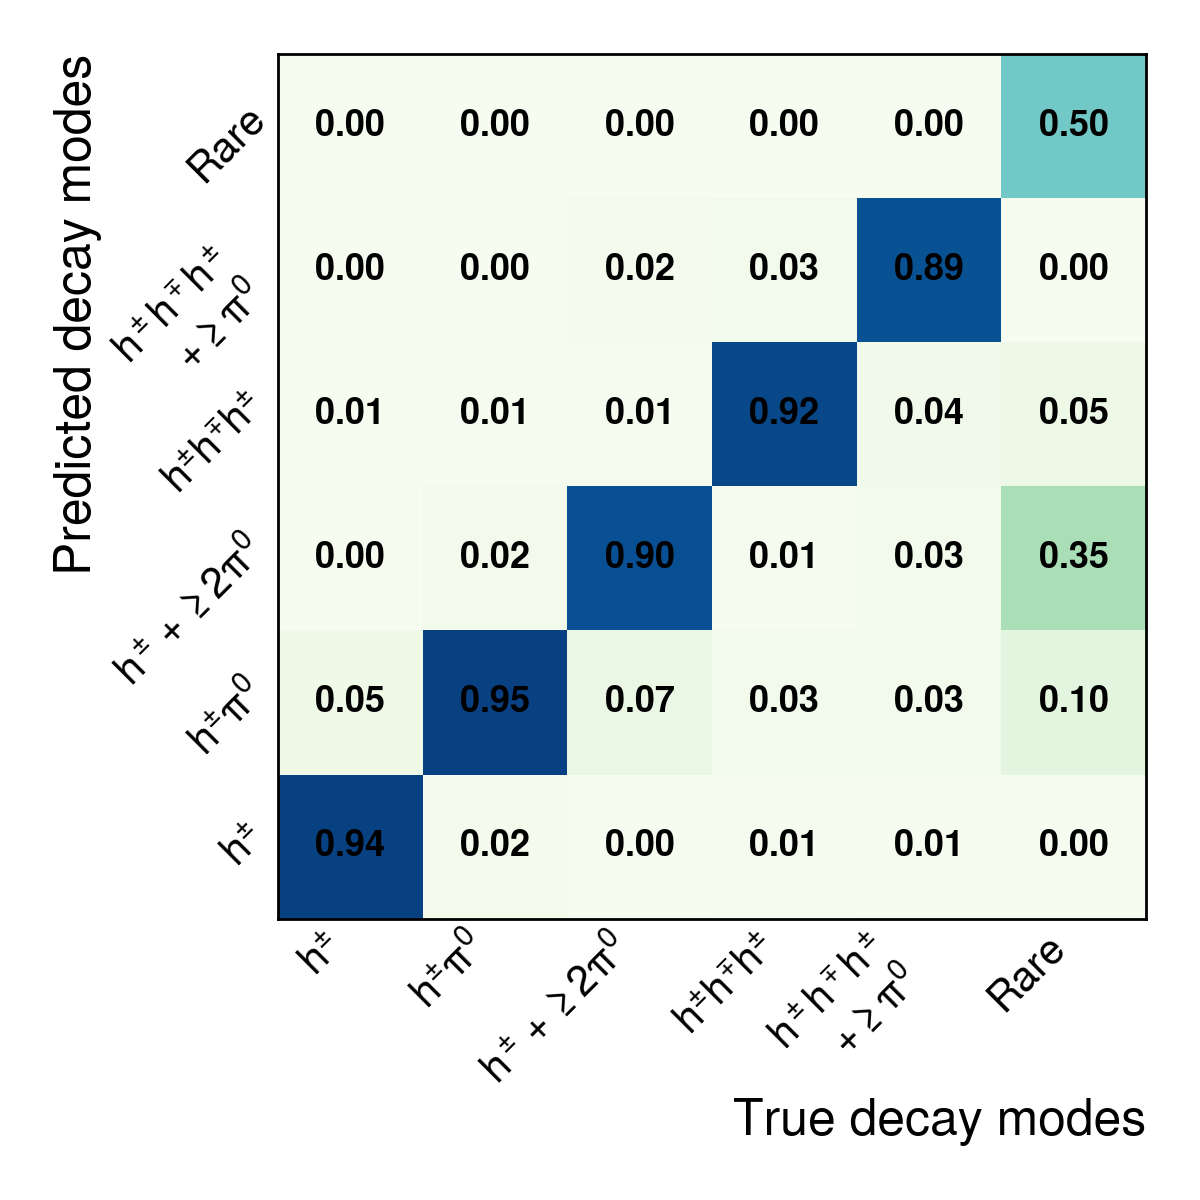
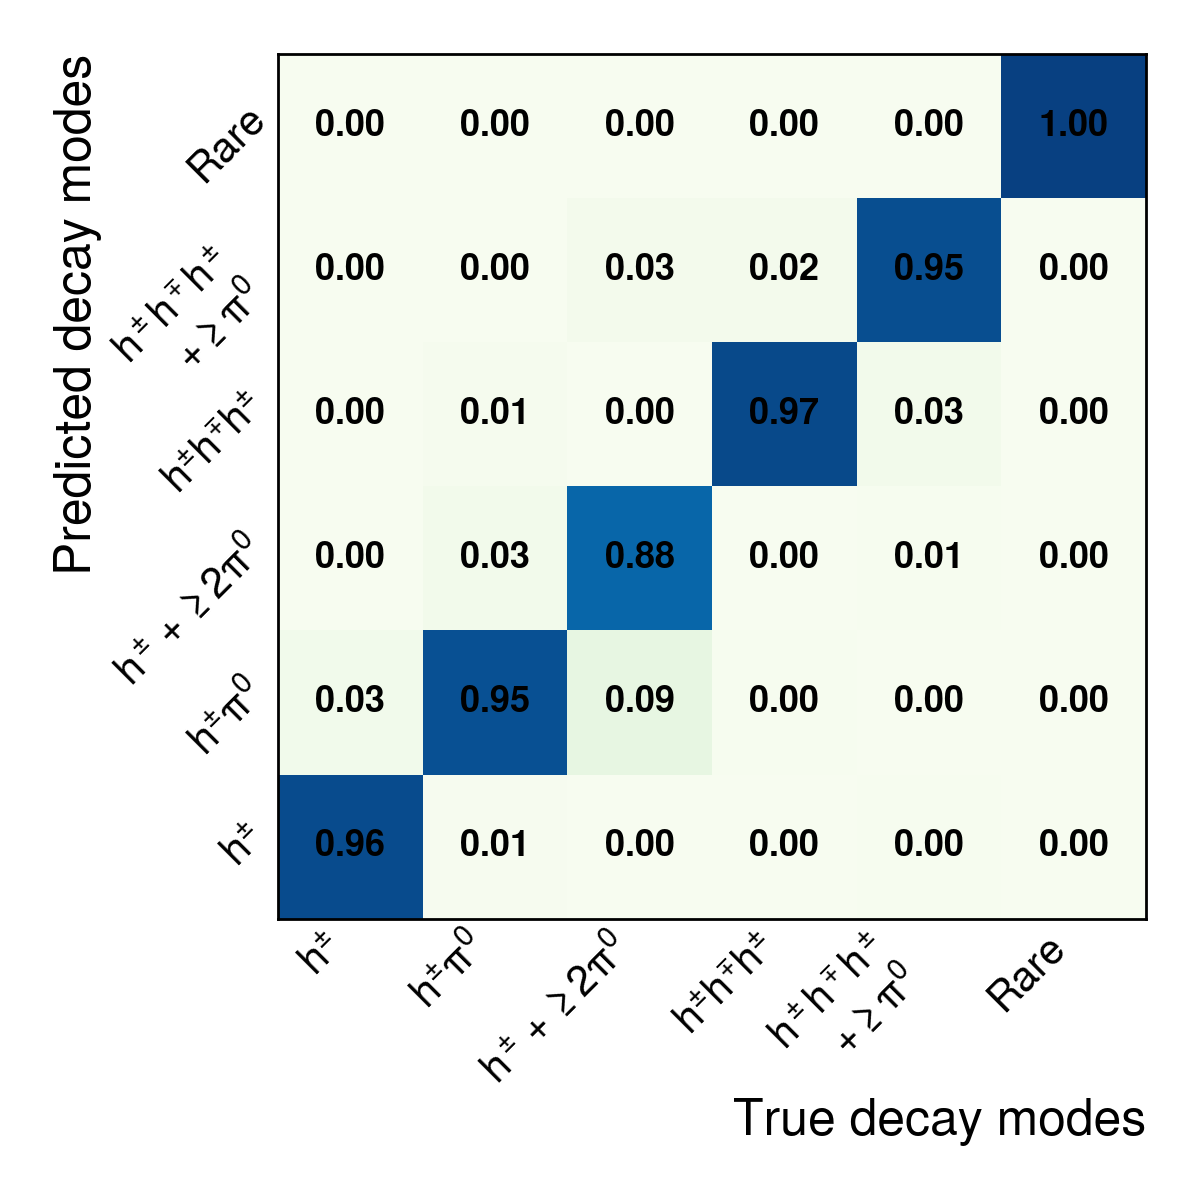
Support the MultiParTau trained on the vertex-corrected Fuτure v3
- mlTauAlg: signed impact parameters, log significance and 0 for neutral
  candidates, selected by the bundle metadata; preprint bundle unchanged
- Validated against the Python model (median score difference ~1e-7)
- README: plots of the new model, 80% WP 0.94, note that the model file
  will be released later; docs/details.md: new metadata field

diff --git a/src/components/mlTauAlg.cpp b/src/components/mlTauAlg.cpp
@@ -127,6 +127,32 @@ StatusCode mlTauAlg::loadMetadata() {
     return StatusCode::FAILURE;
   }
   std::copy(decayModes.begin(), decayModes.end(), m_metadata.decayModeClassToHps.begin());
+
+  // Models trained on the vertex-corrected Fuτure v3 (model/ml-tau-model) use signed impact parameters,
+  // log-compressed significances and 0 for candidates without lifetime information.
+  if (metadata.contains("impact_parameter_features")) {
+    const auto ipFeatures = metadata["impact_parameter_features"];
+    m_metadata.signedImpactParameters = ipFeatures.value("signed", false);
+    const auto transform = ipFeatures.value("significance_transform", std::string("none"));
+    if (transform != "none" && transform != "log") {
+      error() << "Unsupported impact_parameter_features.significance_transform '" << transform
+              << "' (supported: none, log)" << endmsg;
+      return StatusCode::FAILURE;
+    }
+    m_metadata.logSignificance = transform == "log";
+    if (ipFeatures.value("invalid_value", 0.0F) != 0.0F) {
+      error() << "Unsupported impact_parameter_features.invalid_value (only 0 is supported)" << endmsg;
+      return StatusCode::FAILURE;
+    }
+    m_metadata.zeroInvalidImpactParameters = true;
+  }
+  info() << "Impact-parameter features: "
+         << (m_metadata.zeroInvalidImpactParameters
+                 ? std::string(m_metadata.signedImpactParameters ? "signed" : "unsigned") +
+                       (m_metadata.logSignificance ? ", log significance" : ", significance") +
+                       ", 0 if invalid"
+                 : std::string("unsigned, significance, InvalidLifetimeValue if invalid (original Fuτure v3)"))
+         << endmsg;
   return StatusCode::SUCCESS;
 }
 
@@ -224,6 +250,16 @@ mlTauAlg::buildInputs(const std::vector<edm4hep::ReconstructedParticle>& jets,
         massFromP4(jetMomentum.x, jetMomentum.y, jetMomentum.z, jetEnergy);
     inputs.seedKinematics.push_back({jetPt, jetEta, jetPhi, jetMass, jetEnergy});
     inputs.seedConstituents.emplace_back();
+    // Jet direction for the impact-parameter sign: double-precision sum of all constituent momenta, as in the
+    // Python clustering. The sign is decided by a projection that is ~0 for single-track jets (the PCA offset is
+    // perpendicular to the track), so the float-rounded jet momentum is not precise enough.
+    std::array<double, 3> jetMomentumDouble{0.0, 0.0, 0.0};
+    for (const auto& constituent : jet.getParticles()) {
+      const auto p = constituent.getMomentum();
+      jetMomentumDouble[0] += p.x;
+      jetMomentumDouble[1] += p.y;
+      jetMomentumDouble[2] += p.z;
+    }
 
     const auto nConstituents =
         std::min<std::size_t>(jet.particles_size(), kMaxCandidates);
@@ -260,7 +296,7 @@ mlTauAlg::buildInputs(const std::vector<edm4hep::ReconstructedParticle>& jets,
       setFeature(10, absPdg == 22 ? 1.0F : 0.0F);
       setFeature(11, isHadron && std::abs(charge) > 0.0F ? 1.0F : 0.0F);
       setFeature(12, isHadron && std::abs(charge) == 0.0F ? 1.0F : 0.0F);
-      const auto lifetime = calculateLifetimeFeatures(cand, primaryVertices);
+      const auto lifetime = calculateLifetimeFeatures(cand, primaryVertices, jetMomentumDouble);
       setFeature(13, lifetime.dz);
       setFeature(14, lifetime.dzSignificance);
       setFeature(15, lifetime.dxy);
@@ -277,20 +313,27 @@ mlTauAlg::buildInputs(const std::vector<edm4hep::ReconstructedParticle>& jets,
   return inputs;
 }
 
+mlTauAlg::LifetimeFeatures mlTauAlg::invalidLifetimeFeatures() const {
+  if (m_metadata.zeroInvalidImpactParameters) {
+    return {0.0F, 0.0F, 0.0F, 0.0F, false};
+  }
+  const auto invalid = m_invalidLifetimeValue.value();
+  return {invalid, 1.0F, invalid, 1.0F, false};
+}
+
 mlTauAlg::LifetimeFeatures mlTauAlg::calculateLifetimeFeatures(
     const edm4hep::ReconstructedParticle& candidate,
-    const edm4hep::VertexCollection* primaryVertices) const {
+    const edm4hep::VertexCollection* primaryVertices,
+    const std::array<double, 3>& jetMomentum) const {
   if (!m_useLifetimeVariables || primaryVertices == nullptr || primaryVertices->empty() ||
       candidate.tracks_size() == 0) {
-    const auto invalid = m_invalidLifetimeValue.value();
-    return {invalid, 1.0F, invalid, 1.0F, false};
+    return invalidLifetimeFeatures();
   }
 
   const auto vertex = (*primaryVertices)[0].getPosition();
   const auto track = candidate.getTracks(0);
   if (track.trackStates_size() == 0) {
-    const auto invalid = m_invalidLifetimeValue.value();
-    return {invalid, 1.0F, invalid, 1.0F, false};
+    return invalidLifetimeFeatures();
   }
 
   const auto state = track.getTrackStates(0);
@@ -378,7 +421,60 @@ mlTauAlg::LifetimeFeatures mlTauAlg::calculateLifetimeFeatures(
                             : 0.0F;
   const auto dzError = pcaZError;
 
-  return {dz, safeRatio(dz, dzError), dxy, safeRatio(dxy, dxyError), true};
+  if (!m_metadata.zeroInvalidImpactParameters) {
+    return {dz, safeRatio(dz, dzError), dxy, safeRatio(dxy, dxyError), true};
+  }
+
+  // As in model/ml-tau-model (ParT_dataloader.impact_parameter_features): neutral candidates and
+  // candidates without a usable error get 0 in all four features.
+  if (candidate.getCharge() == 0.0F || !(dzError > 0.0F) || !(dxyError > 0.0F)) {
+    return {0.0F, 0.0F, 0.0F, 0.0F, false};
+  }
+  // Sign as in ml-tau-data (lifetime.calc_all_signed_ip_for_jets): positive if the PCA lies in the
+  // direction of the jet as seen from the primary vertex, the same sign for dz and dxy.
+  // The sign is decided by a projection that is ~0 for single-track jets (the PCA offset is perpendicular to the
+  // track), so it is computed with the same arithmetic as ml-tau-data: PCA in float32 in the operation order of
+  // lifetime.py (calc_track_origin, calc_pca_arc_length_vectorized, calc_pca_vectorized), offset normalised in
+  // float32, jet direction and dot product in float64 (calc_all_signed_ip_for_jets).
+  // For ~2% of charged candidates (|projection| ~1e-8) the sign still differs from Python (e.g. numpy's own
+  // float32 sin/cos); there it is set by rounding and effectively random in the training data as well.
+  float sign = 1.0F;
+  if (m_metadata.signedImpactParameters) {
+    const float phiF = state.phi;
+    const float d0F = state.D0;
+    const float tanLF = state.tanLambda;
+    const float sinF = std::sin(phiF);
+    const float cosF = std::cos(phiF);
+    const float ax = static_cast<float>(reference.x) + sinF * d0F;
+    const float ay = static_cast<float>(reference.y) - cosF * d0F;
+    const float az = static_cast<float>(state.Z0) + static_cast<float>(reference.z);
+    const float numeratorF = -((ax - vertex.x) * cosF + (ay - vertex.y) * sinF + (az - vertex.z) * tanLF);
+    const float denominatorF = cosF * cosF + sinF * sinF + tanLF * tanLF;
+    const float arcF = numeratorF / denominatorF;
+    const float pcaXF = arcF * cosF + ax;
+    const float pcaYF = arcF * sinF + ay;
+    const float pcaZF = arcF * tanLF + az;
+    const float offX = pcaXF - vertex.x;
+    const float offY = pcaYF - vertex.y;
+    const float offZ = pcaZF - vertex.z;
+    const float offNorm = std::sqrt(offX * offX + offY * offY + offZ * offZ);
+    if (offNorm > 1.0e-10F) {
+      const double jetNorm = std::sqrt(jetMomentum[0] * jetMomentum[0] + jetMomentum[1] * jetMomentum[1] +
+                                       jetMomentum[2] * jetMomentum[2]);
+      const double jetNormSafe = jetNorm > 1.0e-10 ? jetNorm : 1.0;
+      const double dot = static_cast<double>(offX / offNorm) * (jetMomentum[0] / jetNormSafe) +
+                         static_cast<double>(offY / offNorm) * (jetMomentum[1] / jetNormSafe) +
+                         static_cast<double>(offZ / offNorm) * (jetMomentum[2] / jetNormSafe);
+      sign = dot >= 0.0 ? 1.0F : -1.0F;
+    }
+  }
+  const auto signedDz = sign * dz;
+  const auto signedDxy = sign * dxy;
+  auto compress = [this](float significance) {
+    return m_metadata.logSignificance ? std::copysign(std::log1p(std::abs(significance)), significance)
+                                      : significance;
+  };
+  return {signedDz, compress(signedDz / dzError), signedDxy, compress(signedDxy / dxyError), true};
 }
 
 void mlTauAlg::dumpInputs(const ModelInputs& inputs) const {

diff --git a/include/mlTau/mlTauAlg.h b/include/mlTau/mlTauAlg.h
@@ -39,6 +39,12 @@ private:
     std::vector<float> scalingMean;
     std::vector<float> scalingStd;
     std::array<int, kNumDecayModes> decayModeClassToHps{0, 1, 2, 10, 11, 15};
+    // Impact-parameter features 13-16, from the metadata field "impact_parameter_features".
+    // Absent (models trained on the original Fuτure v3): unsigned dz, dz/sigma_dz, dxy, dxy/sigma_dxy
+    // and InvalidLifetimeValue for candidates without lifetime information.
+    bool signedImpactParameters = false;
+    bool logSignificance = false;
+    bool zeroInvalidImpactParameters = false;
   };
 
   struct SeedKinematics {
@@ -74,7 +80,9 @@ private:
   std::vector<Ort::Value> runInference(const ModelInputs& inputs) const;
   void dumpInputs(const ModelInputs& inputs) const;
   LifetimeFeatures calculateLifetimeFeatures(const edm4hep::ReconstructedParticle& candidate,
-                                             const edm4hep::VertexCollection* primaryVertices) const;
+                                             const edm4hep::VertexCollection* primaryVertices,
+                                             const std::array<double, 3>& jetMomentum) const;
+  LifetimeFeatures invalidLifetimeFeatures() const;
 
   void fillTau(const ModelInputs& inputs,
                const std::vector<Ort::Value>& outputs,

diff --git a/README.md b/README.md
@@ -26,6 +26,11 @@ git clone https://github.com/nseeba/k4mlTau.git
 cd k4mlTau
 ```
 
+> **Note (branch `vertex_fix_model`):** this branch adds support for the new MultiParTau trained on the
+> vertex-corrected Fuτure v3 (the plots in [Performance](#5-performance) are from this model). Its model file
+> will be uploaded as a new release later. Until then, the commands below download the preprint model
+> (release v0.1.0), which also runs with this branch and gives the same results as on `main`.
+
 **Download the model** (from the release
 [v0.1.0](https://github.com/nseeba/k4mlTau/releases/tag/v0.1.0)) into `models/`:
 
@@ -127,8 +132,8 @@ All fields, options and the model interface: [docs/details.md](docs/details.md).
 
 ## 5. Performance
 
-Validation on 50 000 Z → ττ and 50 000 Z → qq events (CLD full simulation,
-√s = 91 GeV). The four tasks are evaluated as in the paper, on the test-split
+Validation of the new MultiParTau (vertex-corrected Fuτure v3; model file to be released) on 50 000 Z → ττ
+and 50 000 Z → qq events (CLD full simulation, √s = 91 GeV). The four tasks are evaluated as in the paper, on the test-split
 jets. k4mlTau reproduces the Python model (scores agree to ~10⁻⁷).
 
 <table>
@@ -142,11 +147,11 @@ jets. k4mlTau reproduces the Python model (scores agree to ~10⁻⁷).
   </tr>
 </table>
 
-The τh candidates with a τh ID score ≥ 0.89 (80% efficiency for true τh):
+The τh candidates with a τh ID score ≥ 0.94 (80% efficiency for true τh):
 
 <table>
   <tr>
-    <td align="center"><img src="docs/images/tau_mass_medium.png" width="360"><br>Visible τh mass: π±, ρ and a1 peaks</td>
+    <td align="center"><img src="docs/images/tau_mass_by_decay_mode.png" width="360"><br>Visible τh mass per reconstructed decay mode: π±, ρ and a1 peaks</td>
     <td align="center"><img src="docs/images/ditau_mass_medium.png" width="360"><br>Visible di-τh mass; same-sign (SS) pairs come from a wrong charge or a fake</td>
   </tr>
 </table>

diff --git a/docs/details.md b/docs/details.md
@@ -104,6 +104,19 @@ the input feature order, the output mapping, the decay-mode mapping and,
 optionally, the input scaling (applied only if `input_scaling.enabled` is
 `true`, with `feature_indices`, `mean` and `std`).
 
+The optional metadata field `impact_parameter_features` selects the definition of the four
+impact-parameter features (13–16). Bundles of models trained on the vertex-corrected Fuτure v3
+(`model/ml-tau-model`) contain
+
+```json
+"impact_parameter_features": {"signed": true, "significance_transform": "log", "invalid_value": 0.0}
+```
+
+i.e. signed d_z and d_xy (positive if the track's point of closest approach lies in the jet direction as
+seen from the primary vertex), significances compressed as sign(s)·log(1 + |s|), and 0 for neutral
+candidates and candidates without a track. Without the field (preprint model, original Fuτure v3) the
+features are unsigned d_z, d_z/σ, d_xy, d_xy/σ with `InvalidLifetimeValue` for candidates without a track.
+
 ONNX inputs (the first 20 constituents of each seed jet, in the order of the input particle collection):
 
 | Name | Shape | Content |
